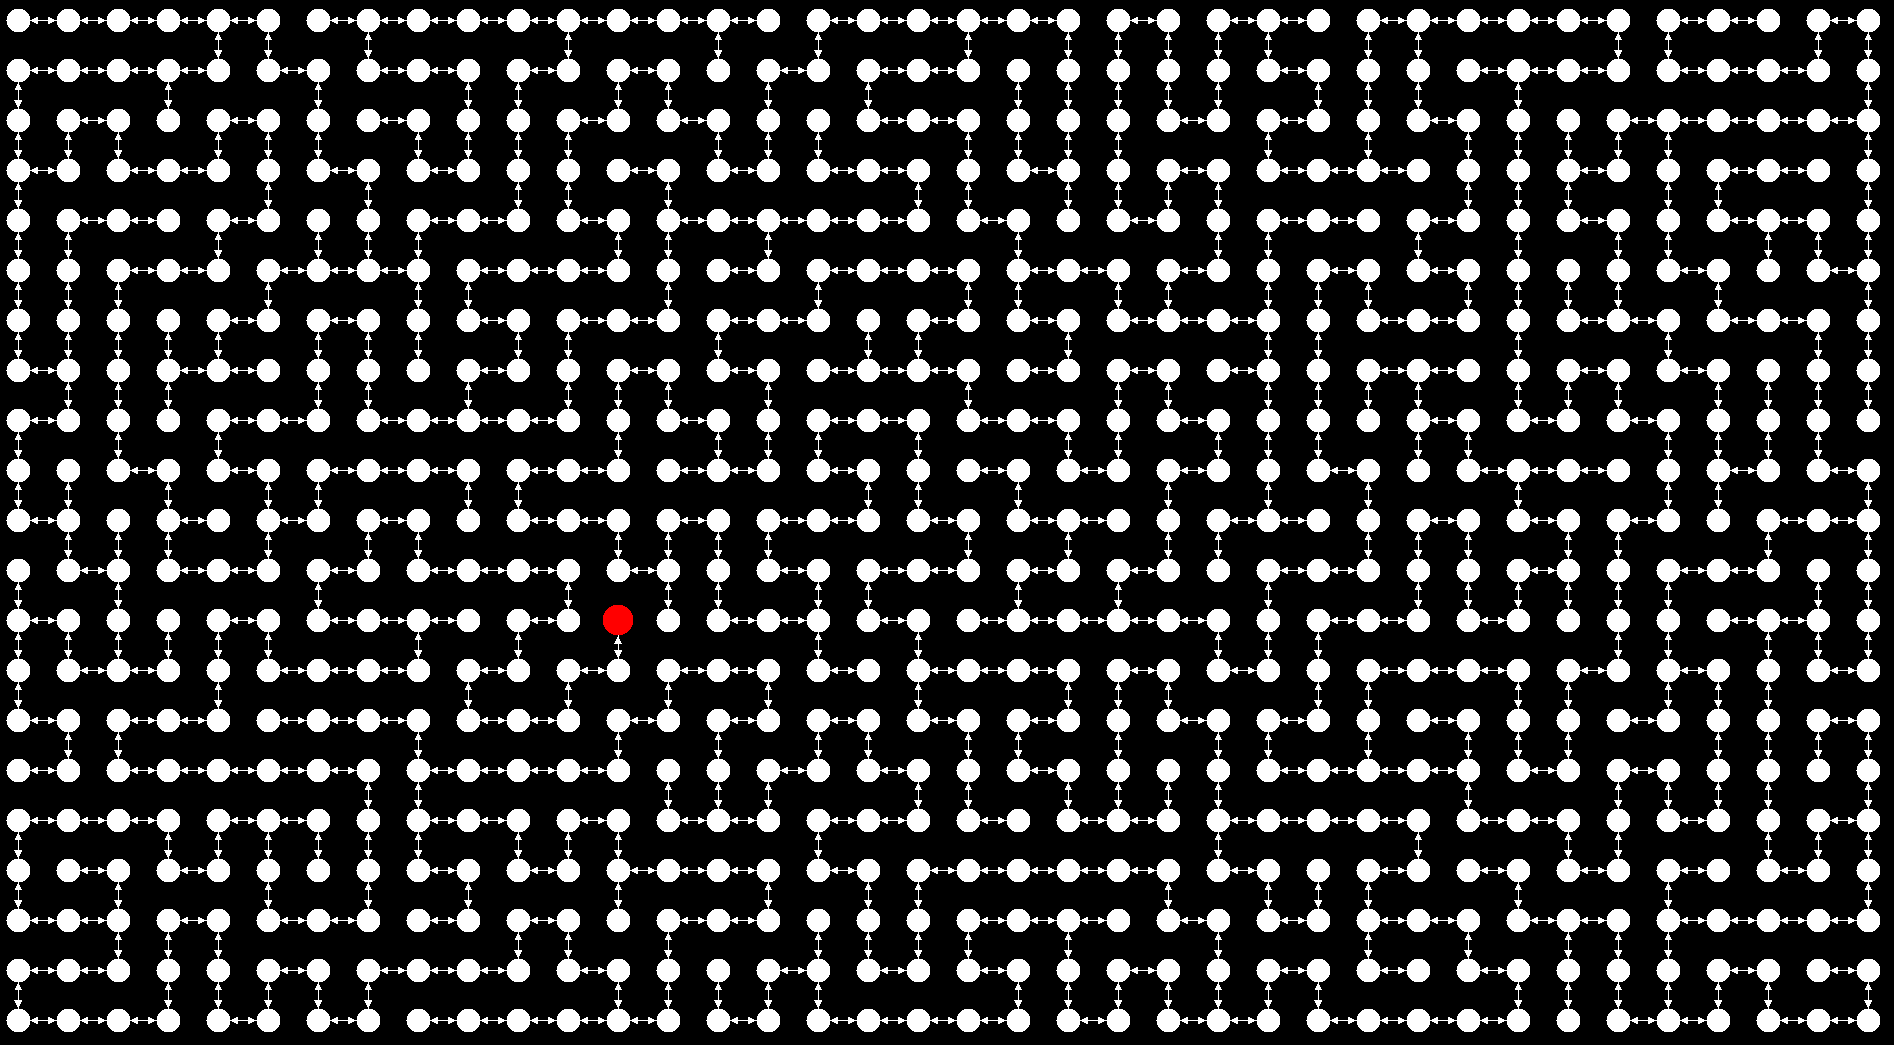
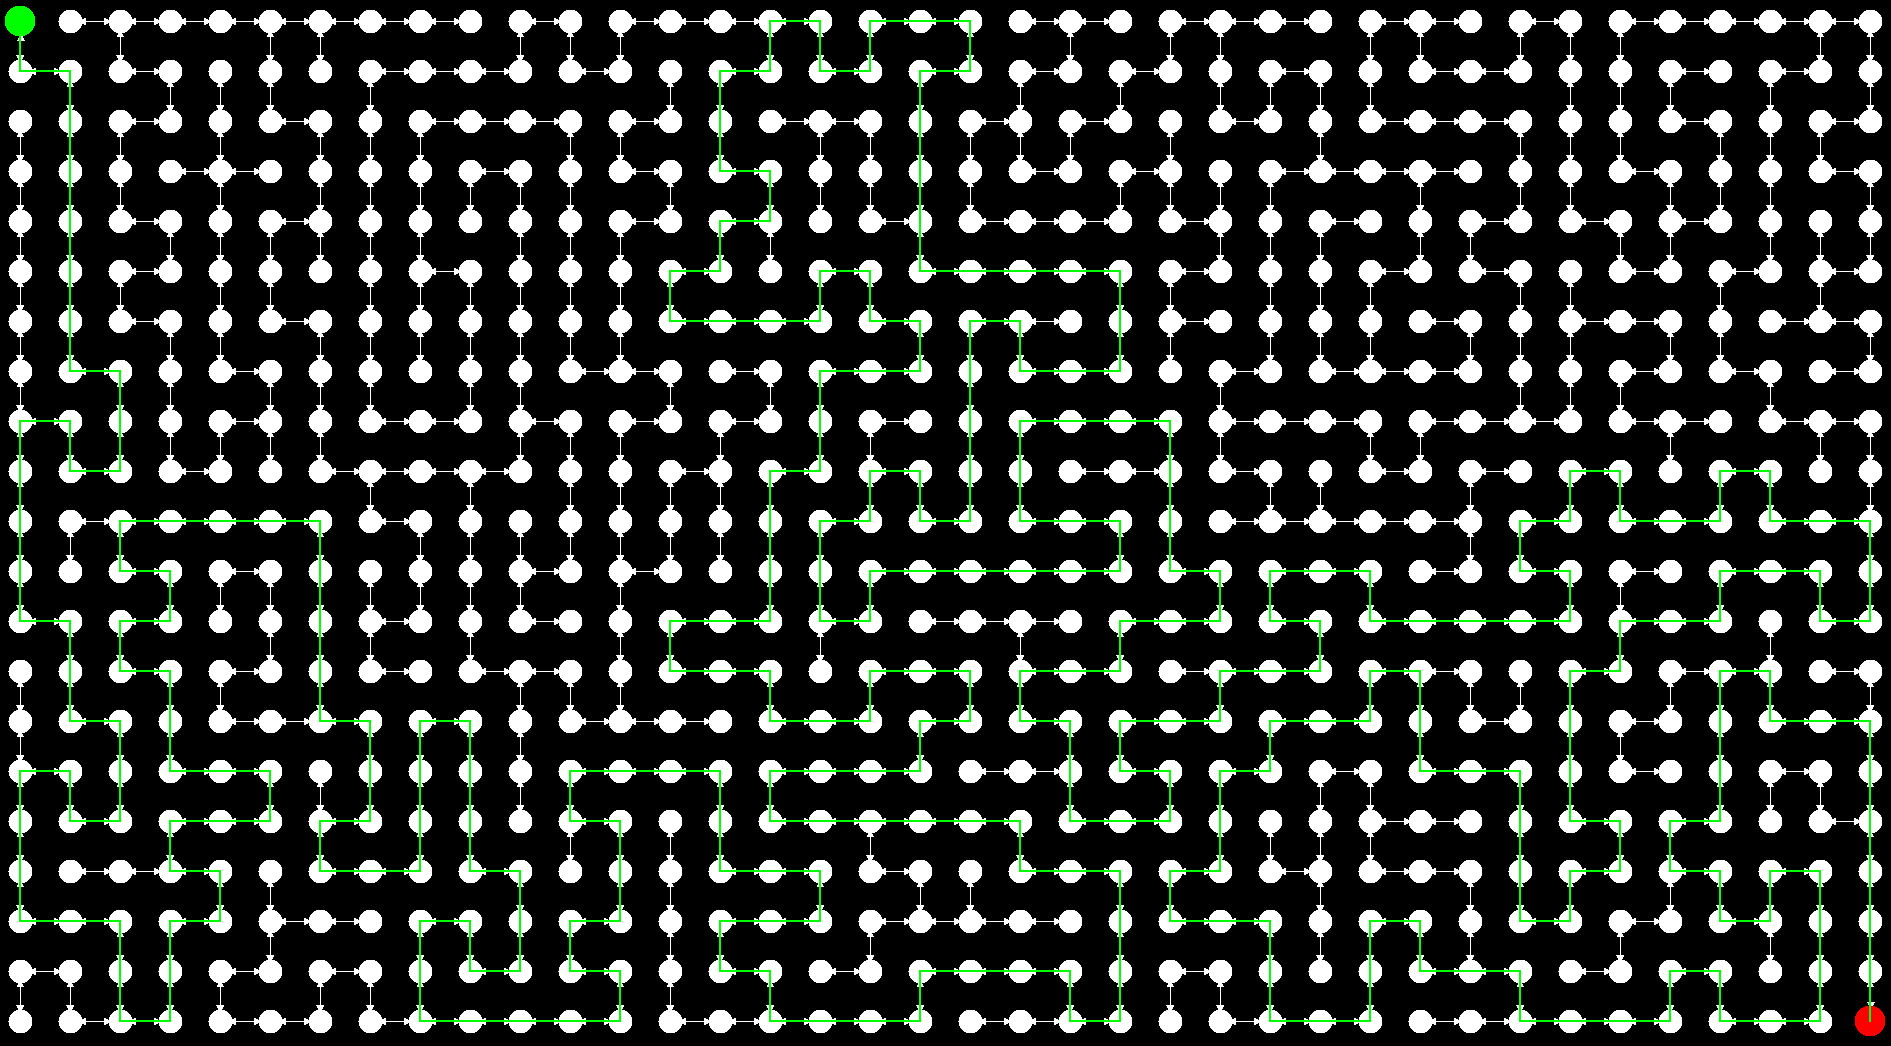
Update README.md

Changed region(s): [[0.0, 0.0, 0.9984, 1.0]]

diff --git a/README.md b/README.md
@@ -5,9 +5,8 @@
 Um diese GUI nutzen zu müssen,
 muss man die H1,
 sprich die Klasse `h07.graph.DirectedGraphImpl`,
-implementiert haben
-und eine entsprechende Fabrik in der `Gruphi.main()` angeben.
-Die einfachste Fabrik sieht in etwa so aus:
+implementiert haben und eine Factory dafür erstellen.
+Die Einfachste sieht in etwa so aus:
 
 ```java
 public static <V, A> DirectedGraphFactory<V, A> defaultFactory() {
@@ -15,6 +14,12 @@ public static <V, A> DirectedGraphFactory<V, A> defaultFactory() {
 }
 ```
 
+Diese kann man in der Klasse [de.oshgnacknak.gruphi.GruphiMain](src/main/java/de/oshgnacknak/gruphi/GruphiMain.java)
+angeben und die Main-Methode ausführen.
+Weiter kann man dort einige Variablen setzten,
+die in [de.oshgnacknak.gruphi.Gruphi](src/main/java/de/oshgnacknak/gruphi/Gruphi.java) definiert sind.
+Unter anderem kann man hier auch seinen Dijkstra (H5) anmelden.
+Viel Spaß!
 
 # Streuerung
 
@@ -34,7 +39,8 @@ Graphen leeren und raster erzeugen
 Knoten erstellen
 
 - Rechte Maustaste:
-Knoten auswählen
+Knoten auswählen.
+Startknoten (grün) auswählen löscht Pfäde.
   
 - Escape, `Q`:
 Beenden
@@ -58,3 +64,7 @@ bwz. neuen Knoten auswählen
   
 - `M`:
 Labyrinth mit Knoten als Startknoten generieren
+
+- `P`:
+Pfäde mit Knoten als Startknoten generieren (grün).
+Danach andere Knoten auswählen, um Pfäde zu sehen.
